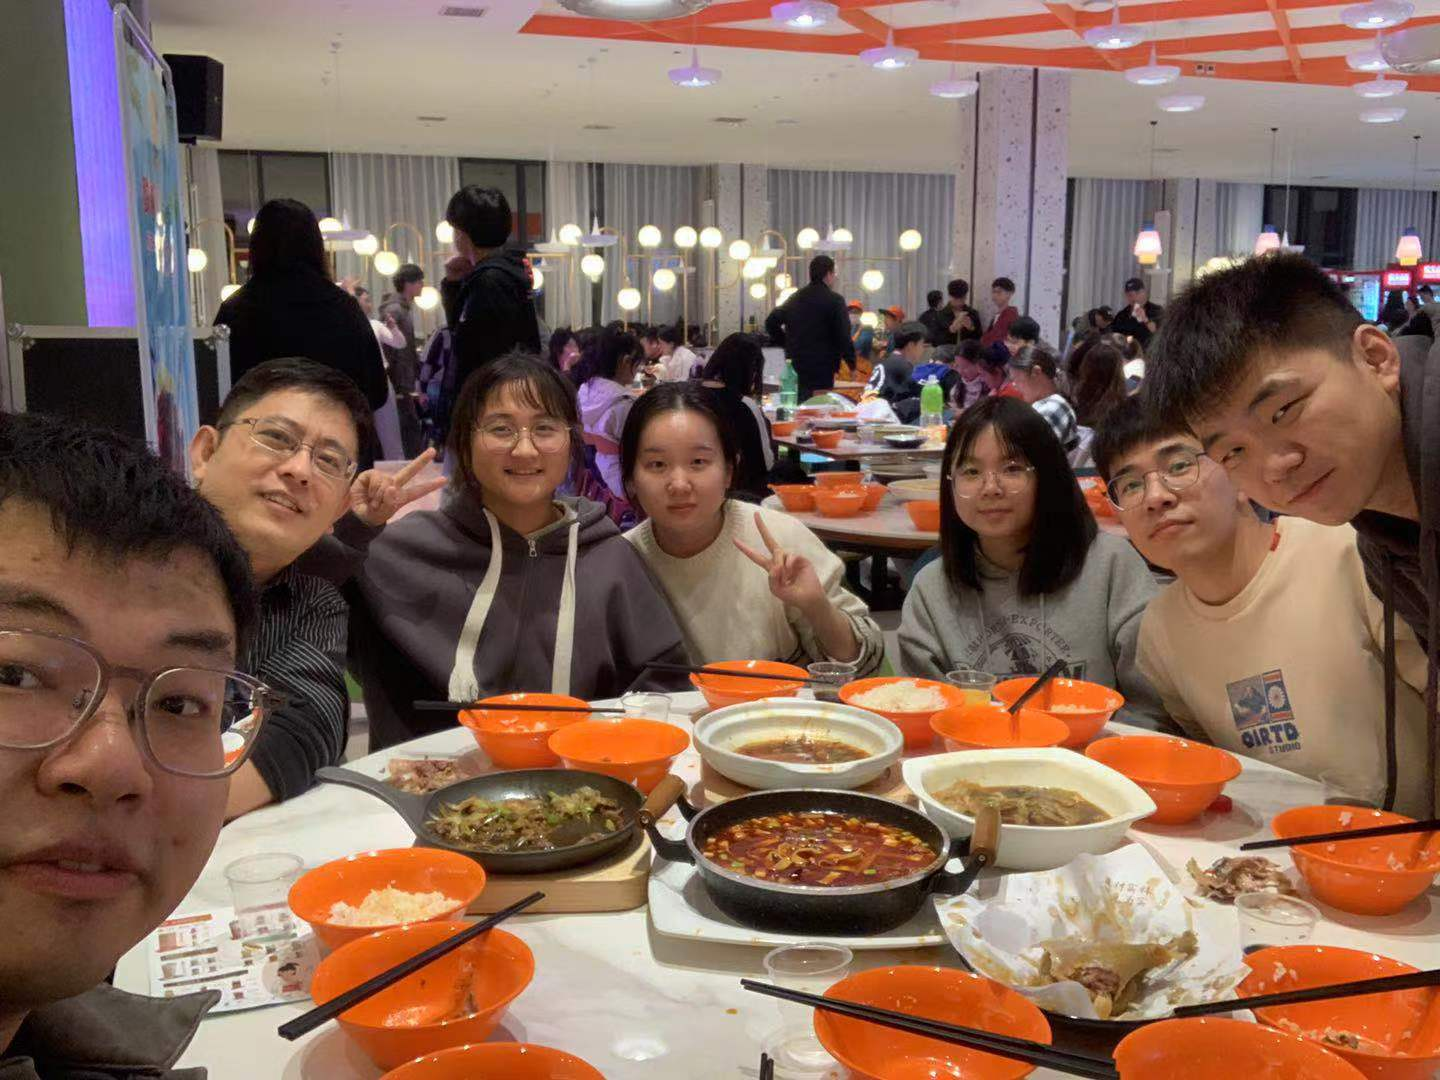
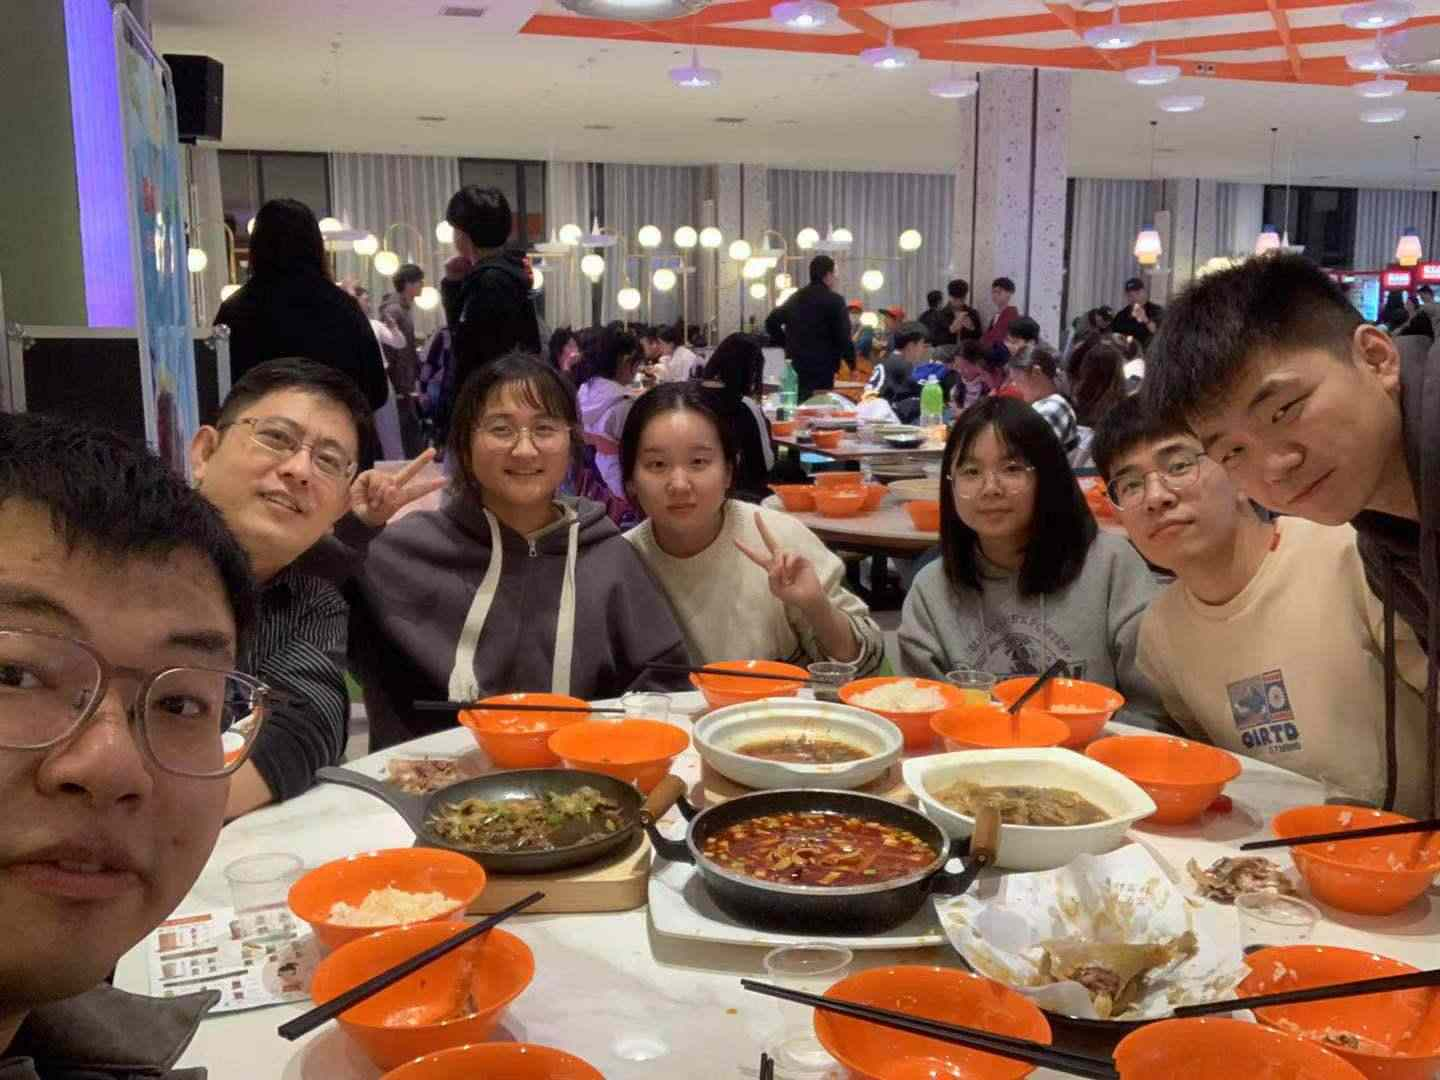
压缩图片，将jQuery改用到一个国内的CDN上

diff --git a/info.html b/info.html
@@ -40,7 +40,7 @@
 							<div class="col-10">
 
                                 <section id="info">
-									<ul >
+									<ul>
 										<!-- 
 											在这里添加资讯（按从上往下，由新到旧的顺序排布）；
 											添加的时候复制一个<li>即可
@@ -117,7 +117,7 @@
 		</div>
 
 		<!-- Scripts -->
-			<script src="assets/js/jquery.min.js"></script>
+			<script crossorigin="anonymous" integrity="sha512-894YE6QWD5I59HgZOGReFYm4dnWc1Qt5NtvYSaNcOP+u1T9qYdvdihz0PPSiiqn/+/3e7Jo4EaG7TubfWGUrMQ==" src="https://lib.baomitu.com/jquery/3.6.0/jquery.min.js"></script>
 			<script src="assets/js/browser.min.js"></script>
 			<script src="assets/js/breakpoints.min.js"></script>
 			<script src="assets/js/util.js"></script>

diff --git a/index.html b/index.html
@@ -106,7 +106,7 @@
 		</div>
 
 		<!-- Scripts -->
-			<script src="assets/js/jquery.min.js"></script>
+			<script crossorigin="anonymous" integrity="sha512-894YE6QWD5I59HgZOGReFYm4dnWc1Qt5NtvYSaNcOP+u1T9qYdvdihz0PPSiiqn/+/3e7Jo4EaG7TubfWGUrMQ==" src="https://lib.baomitu.com/jquery/3.6.0/jquery.min.js"></script>
 			<script src="assets/js/browser.min.js"></script>
 			<script src="assets/js/breakpoints.min.js"></script>
 			<script src="assets/js/util.js"></script>

diff --git a/member.html b/member.html
@@ -128,7 +128,7 @@
 		</div>
 
 		<!-- Scripts -->
-			<script src="assets/js/jquery.min.js"></script>
+			<script crossorigin="anonymous" integrity="sha512-894YE6QWD5I59HgZOGReFYm4dnWc1Qt5NtvYSaNcOP+u1T9qYdvdihz0PPSiiqn/+/3e7Jo4EaG7TubfWGUrMQ==" src="https://lib.baomitu.com/jquery/3.6.0/jquery.min.js"></script>
 			<script src="assets/js/browser.min.js"></script>
 			<script src="assets/js/breakpoints.min.js"></script>
 			<script src="assets/js/util.js"></script>

diff --git a/README.md b/README.md
@@ -3,7 +3,7 @@
 # TODO
 
 - [ ] 首页改版，转换成分两栏式的，实验室简介和史老师简介
-- [ ] 压缩所有的图片，将jQuery改用到一个国内的CDN上
+- [x] 压缩所有的图片，将jQuery改用到一个国内的CDN上
 - [ ] 部署所有的资料
 - [ ] 建立史老师的个人页面
 - [ ] 完善资讯中的“资料”这一条
